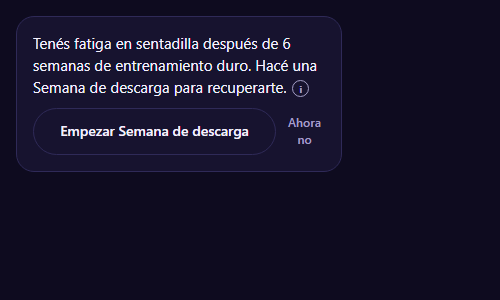
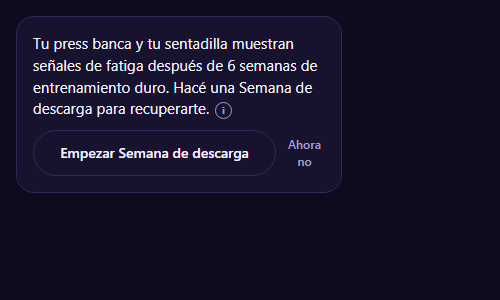
Deload card ES copy: Tu X y tu Y muestran señales de fatiga

diff --git a/app/src/i18n.ts b/app/src/i18n.ts
@@ -1357,7 +1357,7 @@ const es: Messages = {
   deload: {
     active: 'Semana de descarga: más o menos la mitad de las series con un 10% menos de peso',
     fatigue: (lifts, streak) =>
-      `Tenés fatiga en ${lifts.join(' y ')}${streak ? ' después de 6 semanas de entrenamiento duro' : ''}. Hacé una Semana de descarga para recuperarte.`,
+      `Tu ${lifts.join(' y tu ')} ${lifts.length > 1 ? 'muestran' : 'muestra'} señales de fatiga${streak ? ' después de 6 semanas de entrenamiento duro' : ''}. Hacé una Semana de descarga para recuperarte.`,
     accept: 'Empezar Semana de descarga',
     dismiss: 'Ahora no',
     start: 'Empezar una Semana de descarga',
